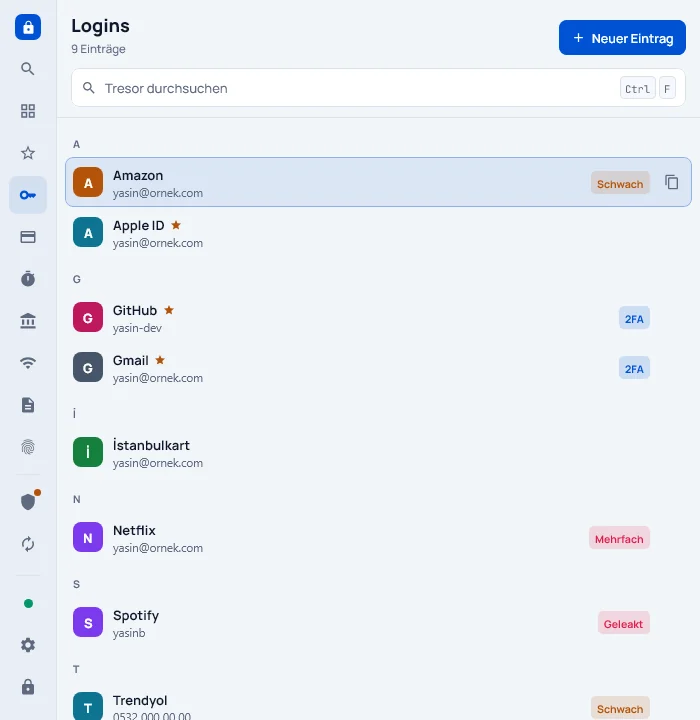
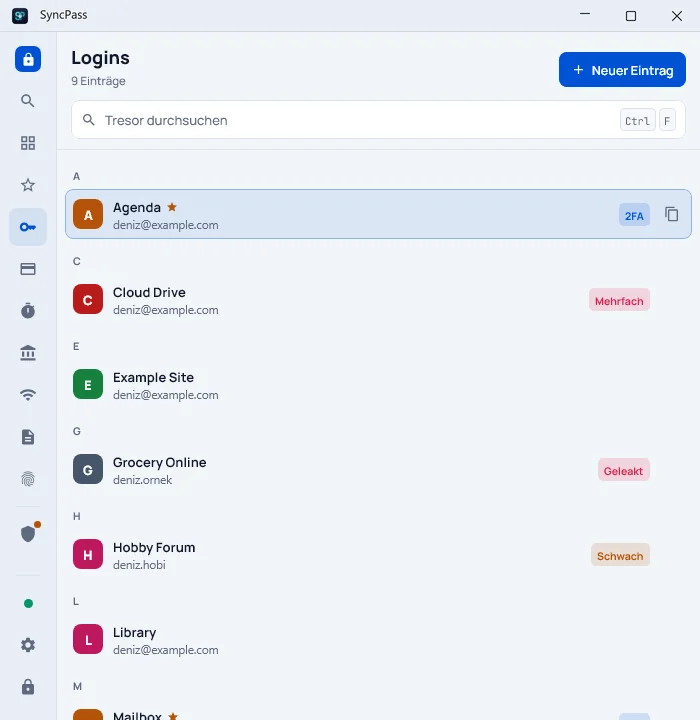
Site görselleri: masaüstü ekranları güncel arayüzden, nötr örnek veriyle
- Masaüstü ekran görüntüleri (kasa, şifre sağlığı, giriş, kartlar, dar pencere) SyncPass Desktop 1.4.11
  bileşenlerinden bellekteki örnek veriyle çizildi: Deniz Örnek, deniz@example.com, example.com; gerçek marka yok
- Windows başlık çubuğu (düğmeler sağda) görselin içinde; Desktop bölümündeki macOS tarzı noktalı çubuk kaldırıldı
- Telefon kasa görüntüsü, video kapağı ve OG görselindeki "Yasin" / "YASIN ORNEK" kaldırıldı;
  OG görselinde "Windows (yakında)" yerine "Android · Windows"
- Aynı dosya adları; önbellek için ?v=SCREENS_VERSION

diff --git a/web/src/components/Hero.tsx b/web/src/components/Hero.tsx
@@ -1,6 +1,6 @@
 import { ArrowRight, Monitor } from "lucide-react";
 import ConstellationBackground from "@/components/ConstellationBackground";
-import { PLAY_URL, PBKDF2_ITERATIONS, LANGUAGE_COUNT, MIN_ANDROID, FREE_ITEM_LIMIT } from "@/lib/site";
+import { PLAY_URL, PBKDF2_ITERATIONS, LANGUAGE_COUNT, MIN_ANDROID, FREE_ITEM_LIMIT, SCREENS_VERSION } from "@/lib/site";
 
 export function PlayIcon({ className = "" }: { className?: string }) {
   return (
@@ -60,11 +60,11 @@ export default function Hero() {
 
         <div className="relative mx-auto w-full max-w-2xl lg:max-w-none pb-10 sm:pb-0 animate-rise [animation-delay:150ms]">
           <div className="device-window ml-auto w-[92%]">
-            <img src="/screens/desktop-vault-dark.webp" alt="SyncPass masaüstü: üç sütunlu kasa görünümü" width={1200} height={800} />
+            <img src={`/screens/desktop-vault-dark.webp?v=${SCREENS_VERSION}`} alt="SyncPass masaüstü: üç sütunlu kasa görünümü" width={1200} height={800} />
           </div>
           <div className="absolute -bottom-2 sm:-bottom-10 left-0 w-[34%] max-w-[230px] animate-float">
             <div className="device-phone">
-              <img src="/screens/phone-vault.webp" alt="SyncPass Android: kasa, güvenlik puanı ve 2FA kodları" width={720} height={1170} />
+              <img src={`/screens/phone-vault.webp?v=${SCREENS_VERSION}`} alt="SyncPass Android: kasa, güvenlik puanı ve 2FA kodları" width={720} height={1170} />
             </div>
           </div>
         </div>

diff --git a/web/src/components/Desktop.tsx b/web/src/components/Desktop.tsx
@@ -2,7 +2,7 @@
 
 import { useState } from "react";
 import { Command, ClipboardX, Columns3, SunMoon } from "lucide-react";
-import { BROWSER_EXTENSION, DESKTOP_DOWNLOAD, DESKTOP_LICENSE } from "@/lib/site";
+import { BROWSER_EXTENSION, DESKTOP_DOWNLOAD, DESKTOP_LICENSE, SCREENS_VERSION } from "@/lib/site";
 
 const shots = {
   vault: { label: "Kasa", dark: "desktop-vault-dark", light: "desktop-vault-light" },
@@ -70,15 +70,10 @@ export default function Desktop() {
         </div>
 
         <div className="device-window max-w-5xl mx-auto">
-          <div className="flex items-center gap-2 border-b border-line px-4 py-2.5 bg-background">
-            <span className="h-2.5 w-2.5 rounded-full bg-line" />
-            <span className="h-2.5 w-2.5 rounded-full bg-line" />
-            <span className="h-2.5 w-2.5 rounded-full bg-line" />
-            <span className="ml-3 text-xs text-muted">SyncPass</span>
-          </div>
+          {/* The Windows title bar is part of the picture. */}
           <img
             key={`${shot}-${theme}`}
-            src={`/screens/${current[theme]}.webp`}
+            src={`/screens/${current[theme]}.webp?v=${SCREENS_VERSION}`}
             alt={`SyncPass masaüstü, ${current.label.toLowerCase()} ekranı, ${theme === "dark" ? "koyu" : "açık"} tema`}
             width={1200}
             height={800}

diff --git a/web/src/app/layout.tsx b/web/src/app/layout.tsx
@@ -1,7 +1,7 @@
 import type { Metadata, Viewport } from "next";
 import { Manrope, JetBrains_Mono } from "next/font/google";
 import { Analytics } from "@vercel/analytics/next";
-import { SITE_URL } from "@/lib/site";
+import { SCREENS_VERSION, SITE_URL } from "@/lib/site";
 import "./globals.css";
 
 // Masaüstü uygulamasıyla aynı yazı tipleri.
@@ -30,13 +30,13 @@ export const metadata: Metadata = {
     title: "SyncPass — Şifreleriniz sizin cihazınızda",
     description,
     siteName: "OstlerTech",
-    images: [{ url: "/og-image.png", width: 1200, height: 630, alt: "SyncPass Android ve masaüstü arayüzü" }],
+    images: [{ url: `/og-image.png?v=${SCREENS_VERSION}`, width: 1200, height: 630, alt: "SyncPass Android ve masaüstü arayüzü" }],
   },
   twitter: {
     card: "summary_large_image",
     title: "SyncPass — Şifreleriniz sizin cihazınızda",
     description,
-    images: ["/og-image.png"],
+    images: [`/og-image.png?v=${SCREENS_VERSION}`],
   },
   robots: { index: true, follow: true },
 };

diff --git a/web/src/app/syncpass-masaustu/page.tsx b/web/src/app/syncpass-masaustu/page.tsx
@@ -2,7 +2,7 @@ import type { Metadata } from "next";
 import { Check, Monitor } from "lucide-react";
 import Navbar from "@/components/Navbar";
 import Footer from "@/components/Footer";
-import { BROWSER_EXTENSION, DESKTOP_DOWNLOAD, DESKTOP_LICENSE, SITE_URL } from "@/lib/site";
+import { BROWSER_EXTENSION, DESKTOP_DOWNLOAD, DESKTOP_LICENSE, SCREENS_VERSION, SITE_URL } from "@/lib/site";
 
 export const metadata: Metadata = {
   title: "SyncPass Masaüstü",
@@ -74,7 +74,7 @@ export default function DesktopLicensePage() {
               </p>
             </details>
             <div className="device-window">
-              <img src="/screens/desktop-vault-dark.webp" alt="SyncPass Masaüstü: üç sütunlu kasa görünümü" width={1200} height={800} />
+              <img src={`/screens/desktop-vault-dark.webp?v=${SCREENS_VERSION}`} alt="SyncPass Masaüstü: üç sütunlu kasa görünümü" width={1200} height={800} />
             </div>
           </div>
 

diff --git a/web/src/lib/site.ts b/web/src/lib/site.ts
@@ -54,6 +54,9 @@ export const BROWSER_EXTENSION = {
   chromeUrl: "https://chromewebstore.google.com/detail/bbighjeekihcenhofnmefgmcadddahbk",
 };
 
+// Ekran görüntüleri ve OG görseli aynı adla yenilenince bu değer artırılır (tarayıcı ve paylaşım önbelleği eskiyi göstermesin).
+export const SCREENS_VERSION = "20261018";
+
 export const PADDLE_BUYER_TERMS_URL = "https://www.paddle.com/legal/checkout-buyer-terms";
 
 export const LEGAL_UPDATED = "4 Ekim 2026";

diff --git a/web/src/lib/videos.ts b/web/src/lib/videos.ts
@@ -16,7 +16,7 @@ export const VIDEOS: Video[] = [
     title: "SyncPass'i 1 dakikada tanıyın",
     description:
       "Şifreler, kartlar ve 2FA kodları tek şifreli kasada. Hesap yok, sunucu yok; kasa telefonda AES-256 ile şifrelenir.",
-    poster: "/videos/syncpass-tanitim.webp",
+    poster: "/videos/syncpass-tanitim.webp?v=20261018", // kapak 2026-10-18: örnek kişi Deniz
     duration: "PT57S",
     durationLabel: "0:57",
     uploadDate: "2026-09-29",
